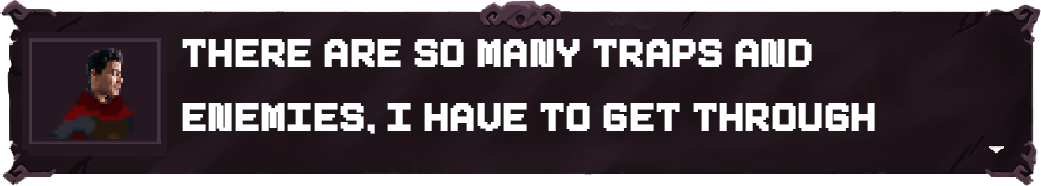
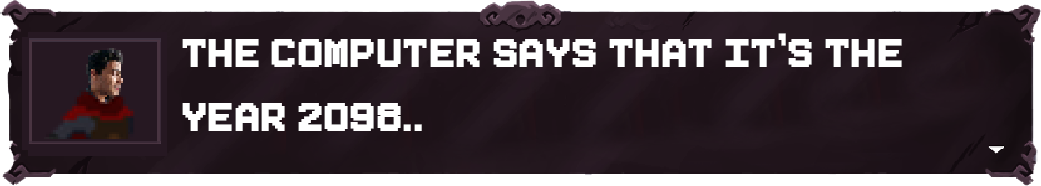
Dialogue

Changed region(s): [[0.1537, 0.5376, 0.8607, 0.7258], [0.2459, 0.1882, 0.8915, 0.3763]]

diff --git a/main.c b/main.c
@@ -68,7 +68,8 @@ int main(int argc, char *argv[])
             pauseBackground pause[6];
             Background b[10], mask[10], gameoverimg;
             Background dialogue[10];
-            int dialogueOnecheck = 0;
+            int dialogueCheck[] = {0, 0, 0, 0, 0, 0, 0, 0, 0, 0, 0, 0, 0, 0, 0, 0, 0, 0, 0, 0, 0, 0, 0, 0, 0, 0, 0, 0, 0, 0};
+            int dialogueIndex = 0;
             Background choice;
             int ctrlChoice;
             int choosing = 1;
@@ -99,7 +100,8 @@ int main(int argc, char *argv[])
             const char *level3mask[] = {"imgs/level 3Mask.png"};
             const char *level4[] = {"imgs/level4_1.png", "imgs/level4_2.png", "imgs/level4_3.png", "imgs/level4_4.png"};
             const char *level4mask[] = {"imgs/level 4Mask.png"};
-            const char *levelOneDialogue[] = {"dialogue/d1.png", "dialogue/d2.png", "dialogue/d3.png", "dialogue/d4.png", "dialogue/d5.png"};
+            const char *levelOneDialogue[] = {"dialogue/d1.png", "dialogue/d2.png", "dialogue/d3.png", "dialogue/d4.png", "dialogue/d5.png", "dialogue/d6.png"
+                                            , "dialogue/d7.png"};
             initBack(&gameoverimg, screen_surface, gameoverpic, 1);
             initBack(&b[0], screen_surface, level1, 10);
             initBack(&mask[0], screen_surface, level1mask, 1);
@@ -111,7 +113,7 @@ int main(int argc, char *argv[])
             initBack(&mask[1], screen_surface, level2mask, 1);
             initBack(&mask[2], screen_surface, level1mask, 1);
             initBack(&mask[4], screen_surface, level4mask, 1);
-            initBack(&dialogue[0], screen_surface, levelOneDialogue, 4);
+            initBack(&dialogue[0], screen_surface, levelOneDialogue, 6);
             initBack(&choice, screen_surface, choicepic, 1);
             init_players(&player, &playerTwo);
             init_e(&e, level);
@@ -144,7 +146,6 @@ int main(int argc, char *argv[])
             // b.images[0]= IMG_Load("imgs/level 1.png");
             Background levelPassed, damage;
             /*Dialogue will be transferred into a seperate function eventually*/
-            int dialogueOneCheck = 0;
             // const char *dialogueOne[] = {"dialogue/dialogueOne.png"};
             // initBack(&dialogue[0], screen_surface, dialogueOne, 1);
             /*End of dialogue*/
@@ -179,7 +180,8 @@ int main(int argc, char *argv[])
             int levelBounds[] = {15000, 12878};
             while (game >= 1)
             {
-
+                printf("player x : %d\n", player.rect.x);
+                printf("actual player x : %d\n", actualPlayer.x);
                 elapsed = SDL_GetTicks() - animation_time;
                 if (elapsed >= 100)
                 {
@@ -212,10 +214,6 @@ int main(int argc, char *argv[])
                         initialy = player.rect.y;
                         initialx = player.rect.x;
                         updatedLevelZero = 1;
-                        if ((level == 0) && (dialogueOneCheck == 0))
-                        {
-                            levelOneDlg(screen_surface, dialogue, &dialogueOneCheck, &dialogueframe,3);
-                        }
                     }
                     break;
                 case 1:
@@ -240,6 +238,17 @@ int main(int argc, char *argv[])
                 case 4:
                     afficherBack(b[level], screen_surface);
                     break;
+                }
+                if ((level == 0) && (dialogueCheck[0] == 0))
+                {
+                    levelDlg(screen_surface, dialogue, &dialogueCheck[dialogueIndex], &dialogueframe, 3);
+                }
+                if ((level == 0) && (dialogueCheck[1] == 0) && (actualPlayer.x >= 860)) {
+                    levelDlg(screen_surface, dialogue, &dialogueCheck[dialogueIndex], &dialogueframe, 5);
+                }
+                if (dialogueCheck[dialogueIndex] == 1)
+                {
+                    dialogueIndex++;
                 }
                 // SDL_BlitSurface(b.images[0],NULL,screen_surface,NULL);
                 move_enemy(&e, actualPlayer, 2000, 4000);
@@ -468,6 +477,7 @@ int main(int argc, char *argv[])
 
                     // Update the screen
                     SDL_Flip(screen_surface);
+
                     // Delay to cap the frame rate
                     current_time = SDL_GetTicks();
                     elapsed_time = current_time - last_update_time;

diff --git a/dialogue.c b/dialogue.c
@@ -1,6 +1,6 @@
 #include "dialogue.h"
 
-void levelOneDlg(SDL_Surface *screen, Background *dialogue, int *dialogueCheck, int *i, int maxframe)
+void levelDlg(SDL_Surface *screen, Background *dialogue, int *dialogueCheck, int *i, int maxframe)
 {
     printf("Func entry\n");
     int inDialogue = 1;
@@ -13,7 +13,8 @@ void levelOneDlg(SDL_Surface *screen, Background *dialogue, int *dialogueCheck, 
         SDL_Flip(screen);
         if (*i >= maxframe) // end of dialogue
         {
-            SDL_Delay(5000);
+            SDL_Delay(2500);
+            *i = *(i) + 1;
             *dialogueCheck = 1;
             inDialogue = 0;
         }
@@ -28,9 +29,10 @@ void levelOneDlg(SDL_Surface *screen, Background *dialogue, int *dialogueCheck, 
             case SDLK_ESCAPE: // skip dialogue
                 *dialogueCheck = 1;
                 inDialogue = 0;
+                *i = maxframe + 1;
                 break;
             case SDLK_RIGHT:
-                *i = *(i) +1;
+                *i = *(i) + 1;
                 break;
             }
         }

diff --git a/dialogue.h b/dialogue.h
@@ -7,7 +7,7 @@
 #include <string.h>
 #include "bg.h"
 
-void levelOneDlg(SDL_Surface *screen, Background* dialogue, int* dialogueCheck,int *i,int maxframe);
+void levelDlg(SDL_Surface *screen, Background* dialogue, int* dialogueCheck,int *i,int maxframe);
 void afficherDialogue(Background b, SDL_Surface *screen, int i);
 
 #endif
